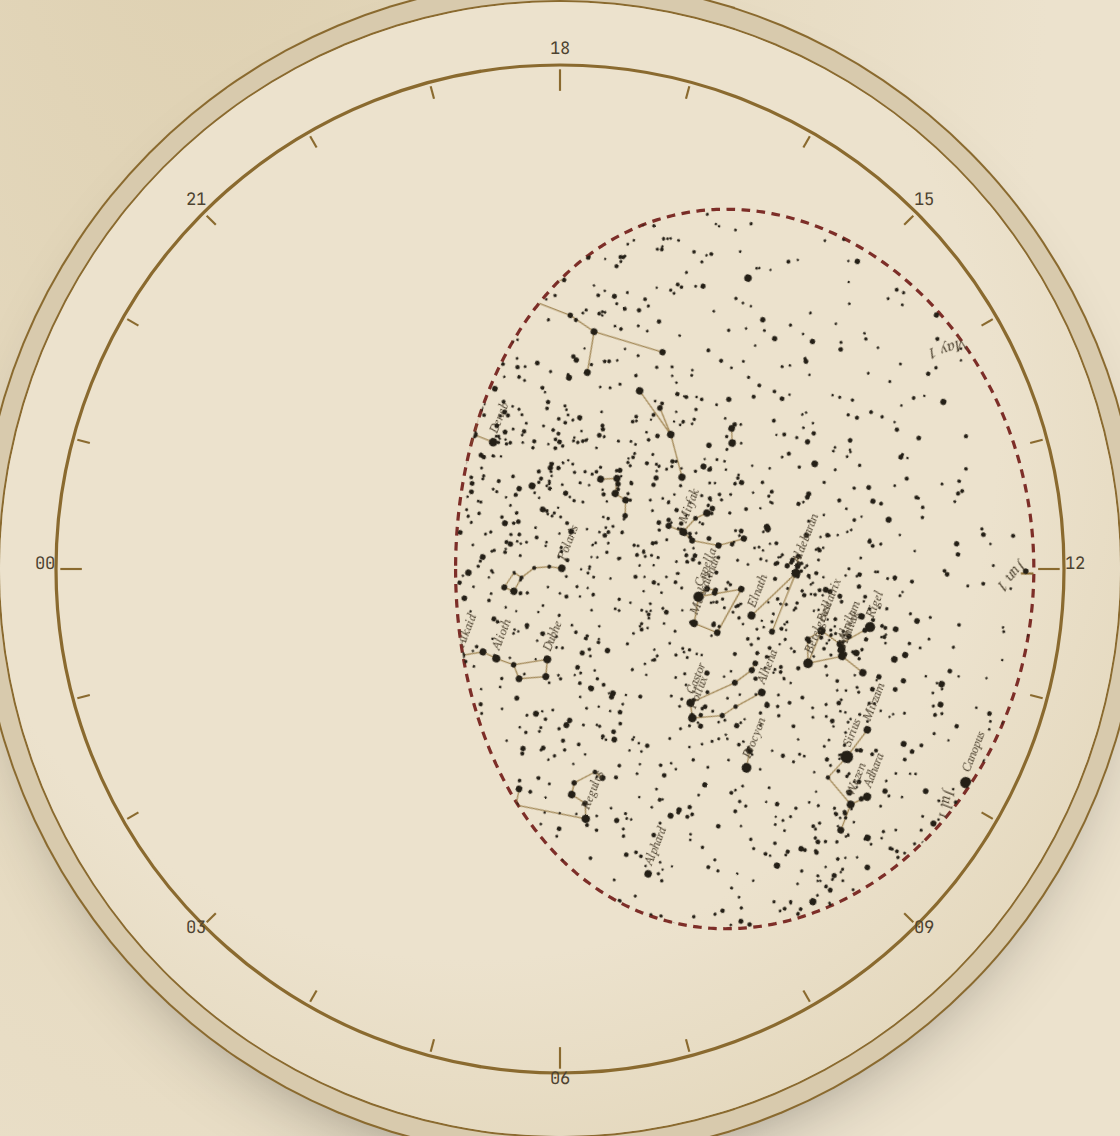
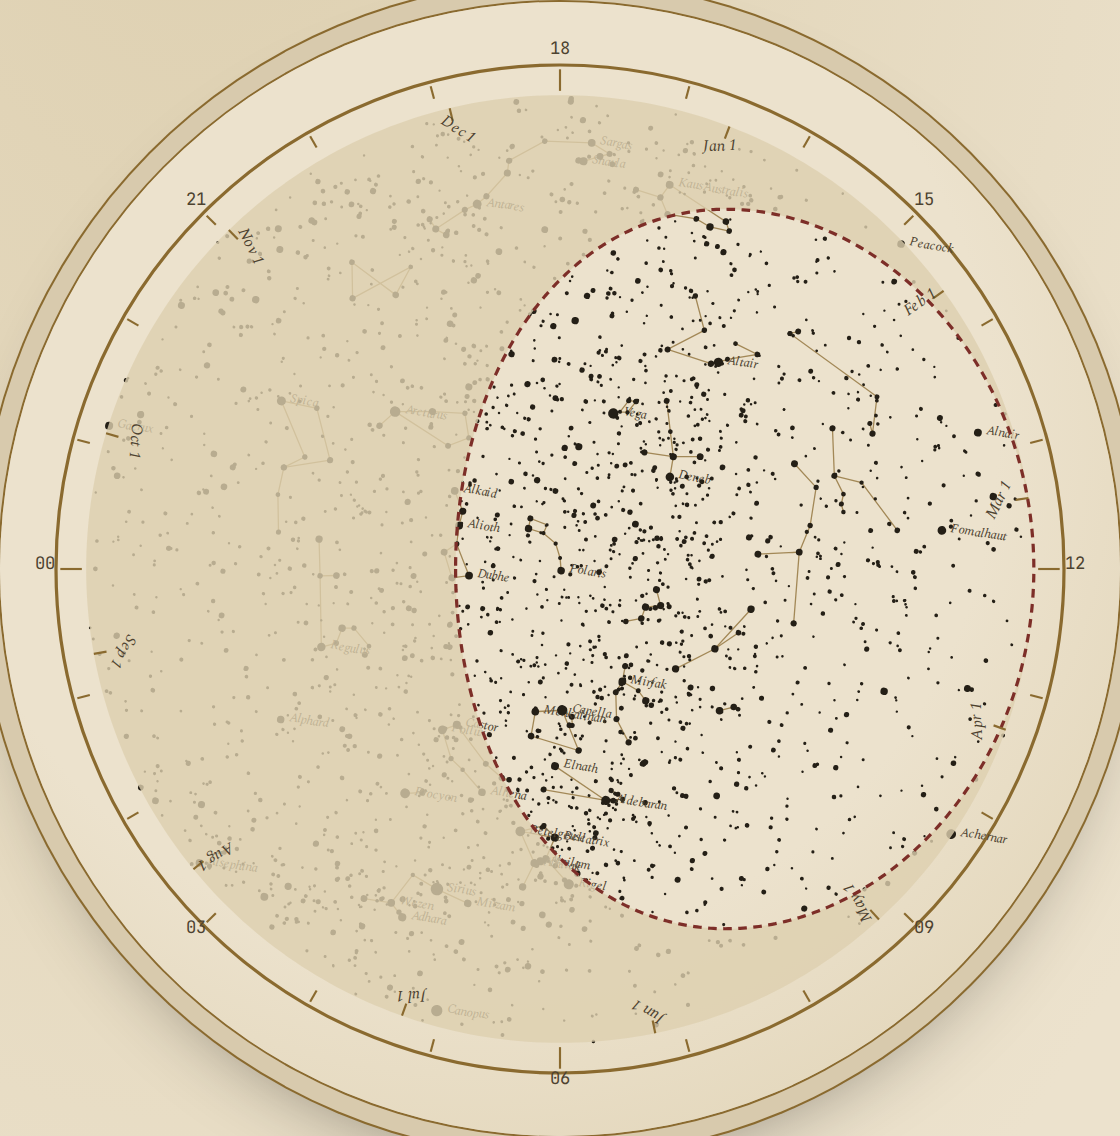
fix(preview): show the whole disc under a translucent holder face and keep the date ring visible
The preview masked everything outside the horizon window, hiding the disc's date ring, so a date could not be read against the hour ring. The disc now renders in full, the holder face dims everything but the window, and the date ring rides on top in its own rotator. Also fixes the astronomical-year hint (-699 is 700 BCE), lands the Babylon and Athens presets on round BCE years, and lets the epoch slider step by single years.

diff --git a/src/render/buildPlanisphereSvg.ts b/src/render/buildPlanisphereSvg.ts
@@ -44,6 +44,15 @@ const MONTH_STARTS = [
   'Dec 1',
 ];
 
+function circlePathPoints(r: number, n: number): { x: number; y: number }[] {
+  const pts: { x: number; y: number }[] = [];
+  for (let i = 0; i < n; i++) {
+    const t = (2 * Math.PI * i) / n;
+    pts.push({ x: r * Math.cos(t), y: r * Math.sin(t) });
+  }
+  return pts;
+}
+
 function starRadius(mag: number): number {
   // Brighter (numerically smaller/negative) magnitude -> bigger disc. Clamp so
   // mag 5.5 stars are still a visible dot and Sirius doesn't dominate the page.
@@ -80,20 +89,6 @@ export function buildPlanisphereSvg(
   );
 
   const windowPolygon = buildHorizonWindowPolygon(config.latDeg, hemisphereSign, scale, 720);
-  holder.appendChild(
-    svgEl('path', {
-      class: 'horizon-window',
-      d: pathFromPoints(windowPolygon),
-      fill: 'none',
-    }),
-  );
-  const maskId = 'horizonMask';
-  const mask = svgEl('mask', { id: maskId });
-  mask.appendChild(
-    svgEl('rect', { x: -9999, y: -9999, width: 19998, height: 19998, fill: 'black' }),
-  );
-  mask.appendChild(svgEl('path', { d: pathFromPoints(windowPolygon), fill: 'white' }));
-  root.appendChild(mask);
 
   const hourRing = svgEl('g', { class: 'hour-ring' });
   holder.appendChild(hourRing);
@@ -124,17 +119,36 @@ export function buildPlanisphereSvg(
   }
 
   // ---- Rotating star disc ----
-  const maskedGroup = svgEl('g', { mask: `url(#${maskId})` });
-  root.appendChild(maskedGroup);
+  // Layering mirrors the physical object: the whole star disc turns underneath,
+  // the holder face covers it except for the horizon window (translucent here so
+  // the rest of the sky stays legible), and the disc's date ring stays in view
+  // around the rim so a date can be lined up against the holder's hour ring.
+  // The date ring lives in a second rotator on top; both share one transform.
   const bakedRotationDeg = discRotationDeg(config.date, config.localHour);
-  const discRotator = svgEl('g', {
-    class: 'disc-rotator',
-    transform: `rotate(${bakedRotationDeg.toFixed(4)})`,
-  });
-  maskedGroup.appendChild(discRotator);
+  const rotation = `rotate(${bakedRotationDeg.toFixed(4)})`;
+  const discRotator = svgEl('g', { class: 'disc-rotator', transform: rotation });
+  root.appendChild(discRotator);
 
+  const faceRing = circlePathPoints(config.discRadius, 360);
+  root.appendChild(
+    svgEl('path', {
+      class: 'holder-face',
+      d: `${pathFromPoints(faceRing)} ${pathFromPoints(windowPolygon)}`,
+      'fill-rule': 'evenodd',
+    }),
+  );
+  root.appendChild(
+    svgEl('path', {
+      class: 'horizon-window',
+      d: pathFromPoints(windowPolygon),
+      fill: 'none',
+    }),
+  );
+
+  const dateRotator = svgEl('g', { class: 'disc-rotator', transform: rotation });
+  root.appendChild(dateRotator);
   const dateRing = svgEl('g', { class: 'date-ring' });
-  discRotator.appendChild(dateRing);
+  dateRotator.appendChild(dateRing);
   for (let m = 0; m < 12; m++) {
     const d = new Date(Date.UTC(2026, m, 1));
     const theta = (dateRingAngleDeg(d) * Math.PI) / 180;

diff --git a/index.html b/index.html
@@ -54,10 +54,10 @@
         <div class="control-group">
           <label for="epoch">Epoch year</label>
           <div class="row">
-            <input type="range" id="epoch" min="-3000" max="3000" step="10" />
+            <input type="range" id="epoch" min="-3000" max="3000" step="1" />
             <output id="epoch-value" for="epoch"></output>
           </div>
-          <p class="hint">Negative = BCE (astronomical year numbering: -700 = 700 BCE).</p>
+          <p class="hint">Negative = BCE (astronomical year numbering: year 0 = 1 BCE, so -699 = 700 BCE).</p>
         </div>
 
         <div class="control-group">

diff --git a/src/main.ts b/src/main.ts
@@ -101,8 +101,9 @@ async function main() {
   }
 
   function applyDragRotation() {
-    const rotator = svg.querySelector<SVGGElement>('.disc-rotator');
-    if (rotator) {
+    // The star disc and its date ring are separate layers (the holder face sits
+    // between them) that must turn together.
+    for (const rotator of svg.querySelectorAll<SVGGElement>('.disc-rotator')) {
       rotator.setAttribute(
         'transform',
         `rotate(${(bakedRotationDeg + dragRotationDeg).toFixed(3)})`,

diff --git a/src/data/cities.ts b/src/data/cities.ts
@@ -16,7 +16,7 @@ export const CITIES: City[] = [
     name: 'Babylon',
     lat: 32.54,
     lon: 44.42,
-    suggestedEpoch: -700,
+    suggestedEpoch: -699,
     note: 'Neo-Babylonian astronomers, MUL.APIN era',
   },
   {
@@ -32,7 +32,7 @@ export const CITIES: City[] = [
     name: 'Athens',
     lat: 37.98,
     lon: 23.73,
-    suggestedEpoch: -350,
+    suggestedEpoch: -349,
     note: 'Aristotle, Eudoxus',
   },
   {

diff --git a/src/style.css b/src/style.css
@@ -323,6 +323,10 @@ output {
   stroke: var(--brass);
   stroke-width: 1.5;
 }
+.holder-face {
+  fill: var(--paper-deep);
+  opacity: 0.8;
+}
 .horizon-window {
   stroke: var(--oxblood);
   stroke-width: 1.5;

diff --git a/README.md b/README.md
@@ -51,8 +51,10 @@ a static site, nothing to install.
   constellations, every line endpoint verified against the catalogue.
 - **Any latitude**, with a preset list including ancient sites: Babylon,
   Alexandria, Athens, Rome, Chichén Itzá, Tikal, Chang'an, Ujjain.
-- **Live, rotatable SVG preview** — drag the disc to turn it; a horizon
-  mask shows exactly which stars are up right now.
+- **Live, rotatable SVG preview** — drag the disc to turn it. As on the
+  printed object, the holder face covers the sky outside the horizon window
+  (dimmed here so it stays readable) and the disc's date ring stays visible
+  around the rim, against the holder's hour ring.
 - **Ink & paper / night-sky themes**, keyboard-accessible, responsive down
   to 375px.
 - **Scale-exact SVG export** of the star disc and the horizon-window
@@ -98,8 +100,10 @@ flowchart LR
    where the date/hour rings come from, is in
    [`docs/geometry.md`](docs/geometry.md).
 4. **Rendering & export.** `src/render/buildPlanisphereSvg.ts` draws the
-   live preview (an SVG `<mask>` shows exactly which stars are currently
-   above the horizon). `src/render/exportSvg.ts` renders the same geometry
+   live preview: the rotating star disc, a translucent holder face with the
+   horizon window cut out (exactly the stars above the horizon show at full
+   strength), and the date ring drawn on top so it can be read against the
+   hour ring. `src/render/exportSvg.ts` renders the same geometry
    at real millimetre scale for print/laser-cut — see
    [`docs/assembly.md`](docs/assembly.md).
 
